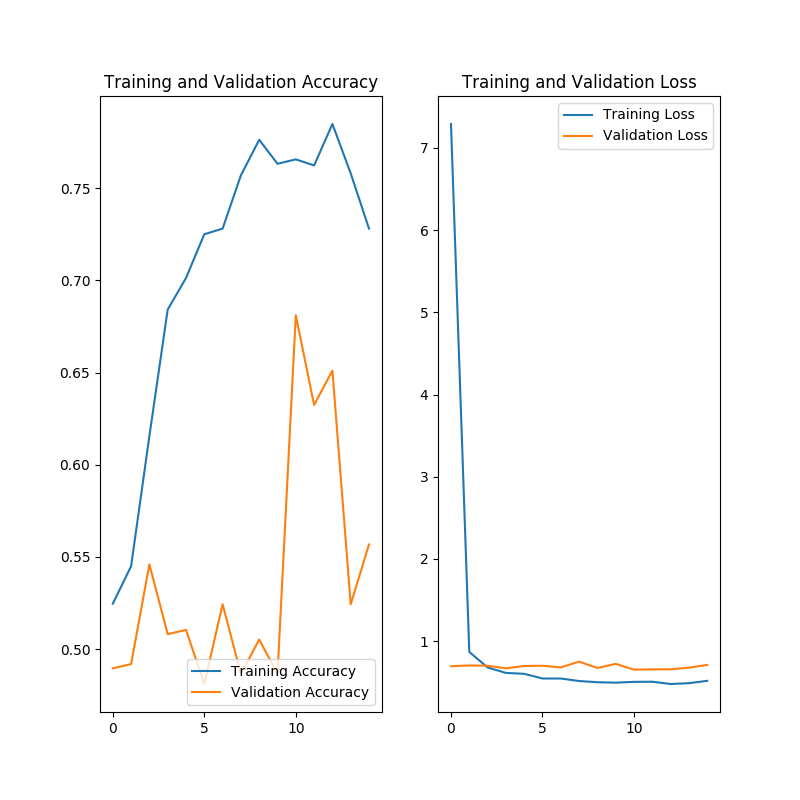
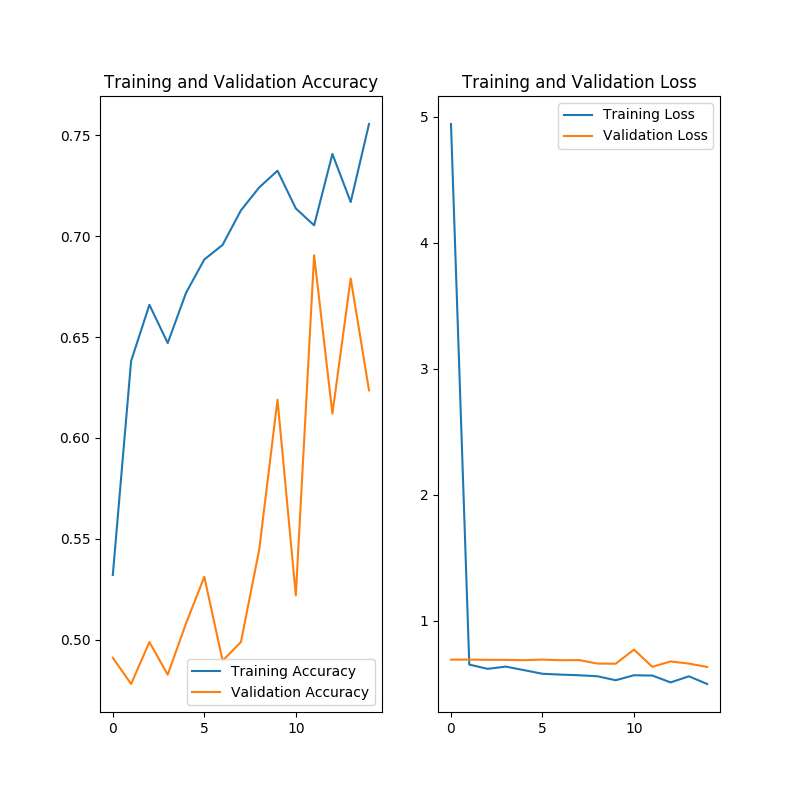
Trained model on full set

diff --git a/streamlit_web/app.py b/streamlit_web/app.py
@@ -83,25 +83,25 @@ elif option == "Email":
 elif option == "NSFW":
 
     showpred = 0
-    test_path = 'dataset/validation/nsfw/'
+    img_path = 'dataset/nsfw_classification/'
     st.sidebar.info(
         "This is demo identifies classifies picture as SFW or NSFW using ML, all the photos from this demo have been downloaded from Reddit.")
 
-    onlyfiles = [f for f in listdir("dataset/validation/nsfw") if isfile(join("dataset/validation/nsfw", f))]
+    onlyfiles = [f for f in listdir(img_path) if isfile(join(img_path, f))]
 
     st.sidebar.title("Predict New Images")
     imageselect = st.sidebar.selectbox("Pick an image.", onlyfiles)
 
     if st.sidebar.button('Predict'):
         showpred = 1
-        prediction = predict(model_nsfw, test_path + imageselect)
+        prediction = predict(model_nsfw, img_path + imageselect)
 
         st.title('NSFW Classification')
         st.write("Pick an image from the left. You'll be able to view the image.")
         st.write("When you're ready, submit a prediction on the left.")
 
     st.write("")
-    image = Image.open(test_path + imageselect)
+    image = Image.open(img_path + imageselect)
 
     st.image(image.filter(ImageFilter.BoxBlur(20)), use_column_width=True)
     if showpred == 1:

diff --git a/nsfw_classification/train_classifier.py b/nsfw_classification/train_classifier.py
@@ -169,6 +169,6 @@ def predict(model1, file):
 
 if __name__ == '__main__':
     model = train()
-    model.save('my_model.h5')
-    model = load_model("my_model.h5")
+    model.save("../streamlit_web/models/nfsw.h5")
+    model = load_model("../streamlit_web/models/nfsw.h5")
     plot(model)
